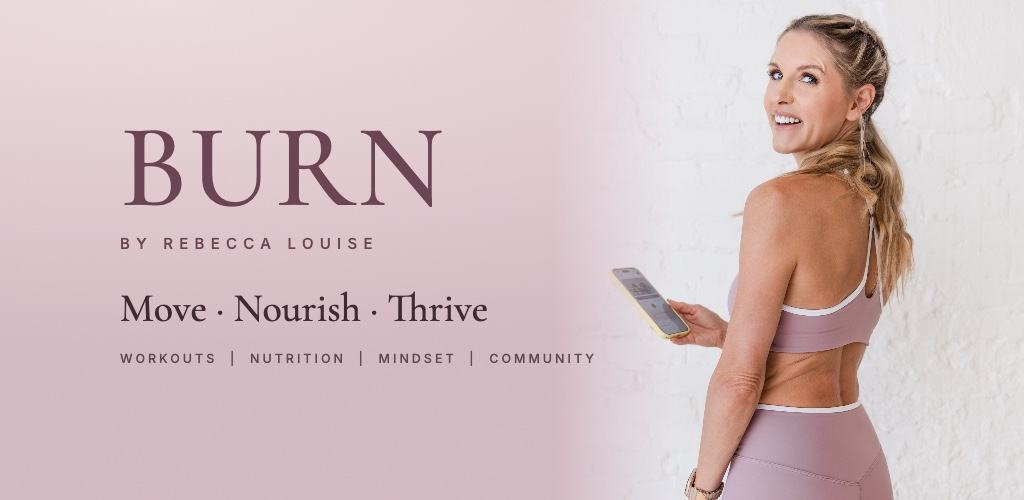
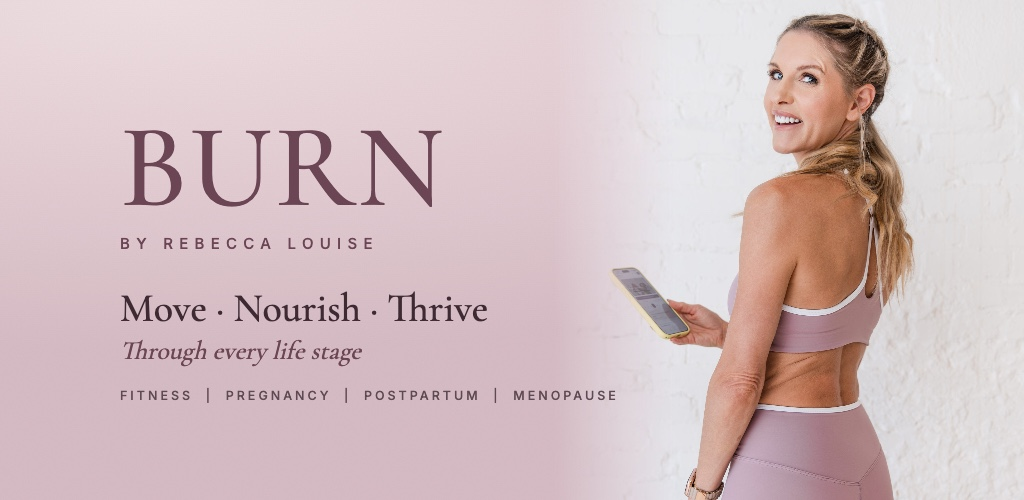
BRN-352: frame 1 + feature graphic life stages (Through every life stage; FITNESS | PREGNANCY | POSTPARTUM | MENOPAUSE); Ask BURN + My BURN plan verified ON; App Store subtitle/promo/keywords

diff --git a/play-listing/index.html b/play-listing/index.html
@@ -56,7 +56,7 @@ table{border-collapse:collapse;width:100%;font-size:14px;background:#fff;border-
  <div class="top"><img class="icon" src="v3/icon.png" alt=""><div><div class="t">BURN by Rebecca Louise</div><div class="dev">Rebecca-Louise</div><div class="iap">In-app purchases</div></div></div>
  <div class="stats"><div><b>New</b>No reviews yet</div><div><b>Teen</b>Rated for 13+</div><div><b>Health &amp; Fitness</b>Category</div></div>
  <div class="install">Install</div>
- <div class="car"><img class="fg" src="v3/feature.jpg" alt=""><img src="v5/play/01-hero.jpg" alt=""><img src="v5/play/02-stages.jpg" alt=""><img src="v5/play/03-challenge.jpg" alt=""><img src="v5/play/04-plan.jpg" alt=""><img src="v5/play/05-workouts.jpg" alt=""><img src="v5/play/06-support.jpg" alt=""><img src="v5/play/07-nourish.jpg" alt=""><img src="v5/play/08-progress.jpg" alt=""></div>
+ <div class="car"><img class="fg" src="v3/feature.jpg?v=6" alt=""><img src="v5/play/01-hero.jpg?v=6" alt=""><img src="v5/play/02-stages.jpg?v=6" alt=""><img src="v5/play/03-challenge.jpg?v=6" alt=""><img src="v5/play/04-plan.jpg?v=6" alt=""><img src="v5/play/05-workouts.jpg?v=6" alt=""><img src="v5/play/06-support.jpg?v=6" alt=""><img src="v5/play/07-nourish.jpg?v=6" alt=""><img src="v5/play/08-progress.jpg?v=6" alt=""></div>
  <div class="sec"><h3>About this app <span>→</span></h3><div class="desc">BURN BY REBECCA LOUISE
 Move. Nourish. Thrive.
 
@@ -172,7 +172,7 @@ https://burn-app-legal.netlify.app/support.html</div>
 <p class="note">With only 8 slots on Play, each frame now groups related features, so every key feature appears and the set reads as one story. Most people only see the first 2 or 3 images (in search results, Apple shows the first three), so the strongest promises come first.</p>
 <table>
 <tr><th>#</th><th>Story</th><th>Headline</th><th>Features in the frame</th></tr>
-<tr><td>1</td><td>Who it's for</td><td>BURN by Rebecca Louise · Move Nourish Thrive</td><td>You, and the brand</td></tr>
+<tr><td>1</td><td>Who it's for</td><td>BURN by Rebecca Louise · Move Nourish Thrive · Through every life stage</td><td>You, plus Fitness · Pregnancy · Postpartum · Menopause</td></tr>
 <tr><td>2</td><td>Who it's for</td><td>One app. Every stage of your journey.</td><td>Pregnancy week by week, the 12-month postpartum journey, menopause, your life stage</td></tr>
 <tr><td>3</td><td>What you do</td><td>A new challenge every month</td><td>Daily challenge workout, guide, calendar, live class, challenge tab with the daily question</td></tr>
 <tr><td>4</td><td>What you do</td><td>Your journey. Your plan.</td><td>My BURN plan builder, cycle-aware training, playlists</td></tr>
@@ -184,19 +184,31 @@ https://burn-app-legal.netlify.app/support.html</div>
 <tr><td>10 (iPhone)</td><td>Who it's for</td><td>Support through every stage</td><td>12-week menopause program, life-stage Today</td></tr>
 </table>
 <p class="note">Headlines 2, 4 and 5 use lines from your own store description. There are no exclamation marks in any headline or caption, and no medical claims. The frames say "pregnancy workouts", "menopause support" and "cycle-aware training", never "treat", "relieve" or "balance".</p>
-<div class="flag"><b>Please confirm before upload:</b> Ask BURN and My BURN plan only appear in the app when they're switched on in the live build's settings. I switched them on for these captures, but couldn't confirm from here that they're on for members. The store can only show features members can actually use. Also, the Ask BURN conversation and the class times are example demo content, written in the style of the app.</div>
+<div class="flag" style="border-color:#cfe3cf;background:#f6fbf6"><b>Checked: Ask BURN and My BURN plan are both on for members.</b> The live production update that members' phones download (published 28 Oct) has both switched on, and both features are running on the server. Both are for BURN Complete members, which matches how the frames present them. The Ask BURN conversation and the class times on the screenshots are example demo content, written in the style of the app.</div>
+
+<h2>App Store text</h2>
+<table>
+<tr><th>Field</th><th>Text</th><th>Length</th></tr>
+<tr><td>Name</td><td>BURN by Rebecca Louise</td><td>22 / 30</td></tr>
+<tr><td>Subtitle</td><td>Workouts for every life stage</td><td>29 / 30</td></tr>
+<tr><td>Promotional text (this month)</td><td>Join our November challenge, Body Redefined. A workout for every day, a guide to download and a whole community doing it with you. Let's get you started!</td><td>153 / 170</td></tr>
+<tr><td>Promotional text (any month)</td><td>Every month there's a new challenge, with a workout for every day, a guide to download and a whole community doing it with you. Let's get you started!</td><td>150 / 170</td></tr>
+<tr><td>Keywords</td><td style="font-family:monospace;font-size:12.5px">pregnancy,postpartum,menopause,pilates,barre,women,home,challenge,yoga,hiit,strength,recipes,cycle</td><td>98 / 100</td></tr>
+<tr><td>Description</td><td>Your own words, unchanged</td><td>3,411 / 4,000</td></tr>
+</table>
+<p class="note" style="margin-top:10px"><b>Why these:</b> Apple searches your name, subtitle, keywords and category. The keywords don't repeat any word already in the name, subtitle or category ("burn", "workouts", "life stage", "health", "fitness"); Apple counts repeats as wasted space. Commas, no spaces, no plurals, no competitor names. Promotional text doesn't affect search and can be changed any time without review, so it's the place for the monthly challenge. "Let's get you started!" is your approved line, and it's the only exclamation mark. Source: <a href="https://developer.apple.com/app-store/search/">Apple, App Store search</a>.</p>
 
 <h2>Google Play screenshots · 1080 × 1920 · your 8</h2>
 <p class="note">Tap any image to open it full size.</p>
-<div class="set"><a href="v5/play/01-hero.jpg" target="_blank"><img src="v5/play/01-hero.jpg" alt="01-hero"></a><a href="v5/play/02-stages.jpg" target="_blank"><img src="v5/play/02-stages.jpg" alt="02-stages"></a><a href="v5/play/03-challenge.jpg" target="_blank"><img src="v5/play/03-challenge.jpg" alt="03-challenge"></a><a href="v5/play/04-plan.jpg" target="_blank"><img src="v5/play/04-plan.jpg" alt="04-plan"></a><a href="v5/play/05-workouts.jpg" target="_blank"><img src="v5/play/05-workouts.jpg" alt="05-workouts"></a><a href="v5/play/06-support.jpg" target="_blank"><img src="v5/play/06-support.jpg" alt="06-support"></a><a href="v5/play/07-nourish.jpg" target="_blank"><img src="v5/play/07-nourish.jpg" alt="07-nourish"></a><a href="v5/play/08-progress.jpg" target="_blank"><img src="v5/play/08-progress.jpg" alt="08-progress"></a></div>
+<div class="set"><a href="v5/play/01-hero.jpg?v=6" target="_blank"><img src="v5/play/01-hero.jpg?v=6" alt="01-hero"></a><a href="v5/play/02-stages.jpg?v=6" target="_blank"><img src="v5/play/02-stages.jpg?v=6" alt="02-stages"></a><a href="v5/play/03-challenge.jpg?v=6" target="_blank"><img src="v5/play/03-challenge.jpg?v=6" alt="03-challenge"></a><a href="v5/play/04-plan.jpg?v=6" target="_blank"><img src="v5/play/04-plan.jpg?v=6" alt="04-plan"></a><a href="v5/play/05-workouts.jpg?v=6" target="_blank"><img src="v5/play/05-workouts.jpg?v=6" alt="05-workouts"></a><a href="v5/play/06-support.jpg?v=6" target="_blank"><img src="v5/play/06-support.jpg?v=6" alt="06-support"></a><a href="v5/play/07-nourish.jpg?v=6" target="_blank"><img src="v5/play/07-nourish.jpg?v=6" alt="07-nourish"></a><a href="v5/play/08-progress.jpg?v=6" target="_blank"><img src="v5/play/08-progress.jpg?v=6" alt="08-progress"></a></div>
 <h2>Alternates you can swap in</h2>
 <p class="note">The first two are new grouped frames that didn't make Play's 8. After those come the single-feature frames from the last round. Any of them can replace a frame above.</p>
-<div class="set"><a href="v5/play/alt-friends.jpg" target="_blank"><img src="v5/play/alt-friends.jpg" alt="v5/play/alt-friends"></a><a href="v5/play/alt-menopause.jpg" target="_blank"><img src="v5/play/alt-menopause.jpg" alt="v5/play/alt-menopause"></a><a href="v3/play/02-challenge.jpg" target="_blank"><img src="v3/play/02-challenge.jpg" alt="v3/play/02-challenge"></a><a href="v3/play/03-move.jpg" target="_blank"><img src="v3/play/03-move.jpg" alt="v3/play/03-move"></a><a href="v3/play/04-recipes.jpg" target="_blank"><img src="v3/play/04-recipes.jpg" alt="v3/play/04-recipes"></a><a href="v3/play/05-together.jpg" target="_blank"><img src="v3/play/05-together.jpg" alt="v3/play/05-together"></a><a href="v3/play/06-clubs.jpg" target="_blank"><img src="v3/play/06-clubs.jpg" alt="v3/play/06-clubs"></a><a href="v3/play/07-friends.jpg" target="_blank"><img src="v3/play/07-friends.jpg" alt="v3/play/07-friends"></a><a href="v3/play/08-progress.jpg" target="_blank"><img src="v3/play/08-progress.jpg" alt="v3/play/08-progress"></a><a href="v3/play/09-thrive.jpg" target="_blank"><img src="v3/play/09-thrive.jpg" alt="v3/play/09-thrive"></a></div>
+<div class="set"><a href="v5/play/alt-friends.jpg?v=6" target="_blank"><img src="v5/play/alt-friends.jpg?v=6" alt="v5/play/alt-friends"></a><a href="v5/play/alt-menopause.jpg?v=6" target="_blank"><img src="v5/play/alt-menopause.jpg?v=6" alt="v5/play/alt-menopause"></a><a href="v3/play/02-challenge.jpg?v=6" target="_blank"><img src="v3/play/02-challenge.jpg?v=6" alt="v3/play/02-challenge"></a><a href="v3/play/03-move.jpg?v=6" target="_blank"><img src="v3/play/03-move.jpg?v=6" alt="v3/play/03-move"></a><a href="v3/play/04-recipes.jpg?v=6" target="_blank"><img src="v3/play/04-recipes.jpg?v=6" alt="v3/play/04-recipes"></a><a href="v3/play/05-together.jpg?v=6" target="_blank"><img src="v3/play/05-together.jpg?v=6" alt="v3/play/05-together"></a><a href="v3/play/06-clubs.jpg?v=6" target="_blank"><img src="v3/play/06-clubs.jpg?v=6" alt="v3/play/06-clubs"></a><a href="v3/play/07-friends.jpg?v=6" target="_blank"><img src="v3/play/07-friends.jpg?v=6" alt="v3/play/07-friends"></a><a href="v3/play/08-progress.jpg?v=6" target="_blank"><img src="v3/play/08-progress.jpg?v=6" alt="v3/play/08-progress"></a><a href="v3/play/09-thrive.jpg?v=6" target="_blank"><img src="v3/play/09-thrive.jpg?v=6" alt="v3/play/09-thrive"></a></div>
 <h2>Feature graphic · 1024 × 500</h2>
 <p class="note">Same style as the screenshots. You're on the right and the text sits in the centre safe area. There's no phone frame, and no "free", "new" or "best", as Google's rules require.</p>
-<img src="v3/feature.jpg" style="width:100%;max-width:1024px;border-radius:12px;display:block" alt="">
+<img src="v3/feature.jpg?v=6" style="width:100%;max-width:1024px;border-radius:12px;display:block" alt="">
 <h2>iPhone screenshots · 1320 × 2868 (6.9") · your 10</h2>
-<div class="set ip"><a href="v5/iphone/01-hero.jpg" target="_blank"><img src="v5/iphone/01-hero.jpg" alt="01-hero"></a><a href="v5/iphone/02-stages.jpg" target="_blank"><img src="v5/iphone/02-stages.jpg" alt="02-stages"></a><a href="v5/iphone/03-challenge.jpg" target="_blank"><img src="v5/iphone/03-challenge.jpg" alt="03-challenge"></a><a href="v5/iphone/04-plan.jpg" target="_blank"><img src="v5/iphone/04-plan.jpg" alt="04-plan"></a><a href="v5/iphone/05-workouts.jpg" target="_blank"><img src="v5/iphone/05-workouts.jpg" alt="05-workouts"></a><a href="v5/iphone/06-support.jpg" target="_blank"><img src="v5/iphone/06-support.jpg" alt="06-support"></a><a href="v5/iphone/07-nourish.jpg" target="_blank"><img src="v5/iphone/07-nourish.jpg" alt="07-nourish"></a><a href="v5/iphone/08-progress.jpg" target="_blank"><img src="v5/iphone/08-progress.jpg" alt="08-progress"></a><a href="v5/iphone/09-friends.jpg" target="_blank"><img src="v5/iphone/09-friends.jpg" alt="09-friends"></a><a href="v5/iphone/10-menopause.jpg" target="_blank"><img src="v5/iphone/10-menopause.jpg" alt="10-menopause"></a></div>
+<div class="set ip"><a href="v5/iphone/01-hero.jpg?v=6" target="_blank"><img src="v5/iphone/01-hero.jpg?v=6" alt="01-hero"></a><a href="v5/iphone/02-stages.jpg?v=6" target="_blank"><img src="v5/iphone/02-stages.jpg?v=6" alt="02-stages"></a><a href="v5/iphone/03-challenge.jpg?v=6" target="_blank"><img src="v5/iphone/03-challenge.jpg?v=6" alt="03-challenge"></a><a href="v5/iphone/04-plan.jpg?v=6" target="_blank"><img src="v5/iphone/04-plan.jpg?v=6" alt="04-plan"></a><a href="v5/iphone/05-workouts.jpg?v=6" target="_blank"><img src="v5/iphone/05-workouts.jpg?v=6" alt="05-workouts"></a><a href="v5/iphone/06-support.jpg?v=6" target="_blank"><img src="v5/iphone/06-support.jpg?v=6" alt="06-support"></a><a href="v5/iphone/07-nourish.jpg?v=6" target="_blank"><img src="v5/iphone/07-nourish.jpg?v=6" alt="07-nourish"></a><a href="v5/iphone/08-progress.jpg?v=6" target="_blank"><img src="v5/iphone/08-progress.jpg?v=6" alt="08-progress"></a><a href="v5/iphone/09-friends.jpg?v=6" target="_blank"><img src="v5/iphone/09-friends.jpg?v=6" alt="09-friends"></a><a href="v5/iphone/10-menopause.jpg?v=6" target="_blank"><img src="v5/iphone/10-menopause.jpg?v=6" alt="10-menopause"></a></div>
 
 <h2>Promotional cards ("promotions tab")</h2>
 <p class="note"><b>The short answer:</b> the promo cards you remember from the old BURN listing are Google Play's <b>Promotional content</b> (it used to be called LiveOps). Google now only gives this to very large apps: roughly 1.6 million monthly users, or $40,000 a month spent on Play. Brand-new listings can't use it at all. I checked BURN's Play Console (read-only): there's no Promotional content option under Grow users. So we can't post these on Google Play yet. <b>On the App Store, you can</b>: Apple's In-App Events are open to every app, with up to 10 live at once on your page. A monthly challenge is exactly what Apple designed them for.</p>
